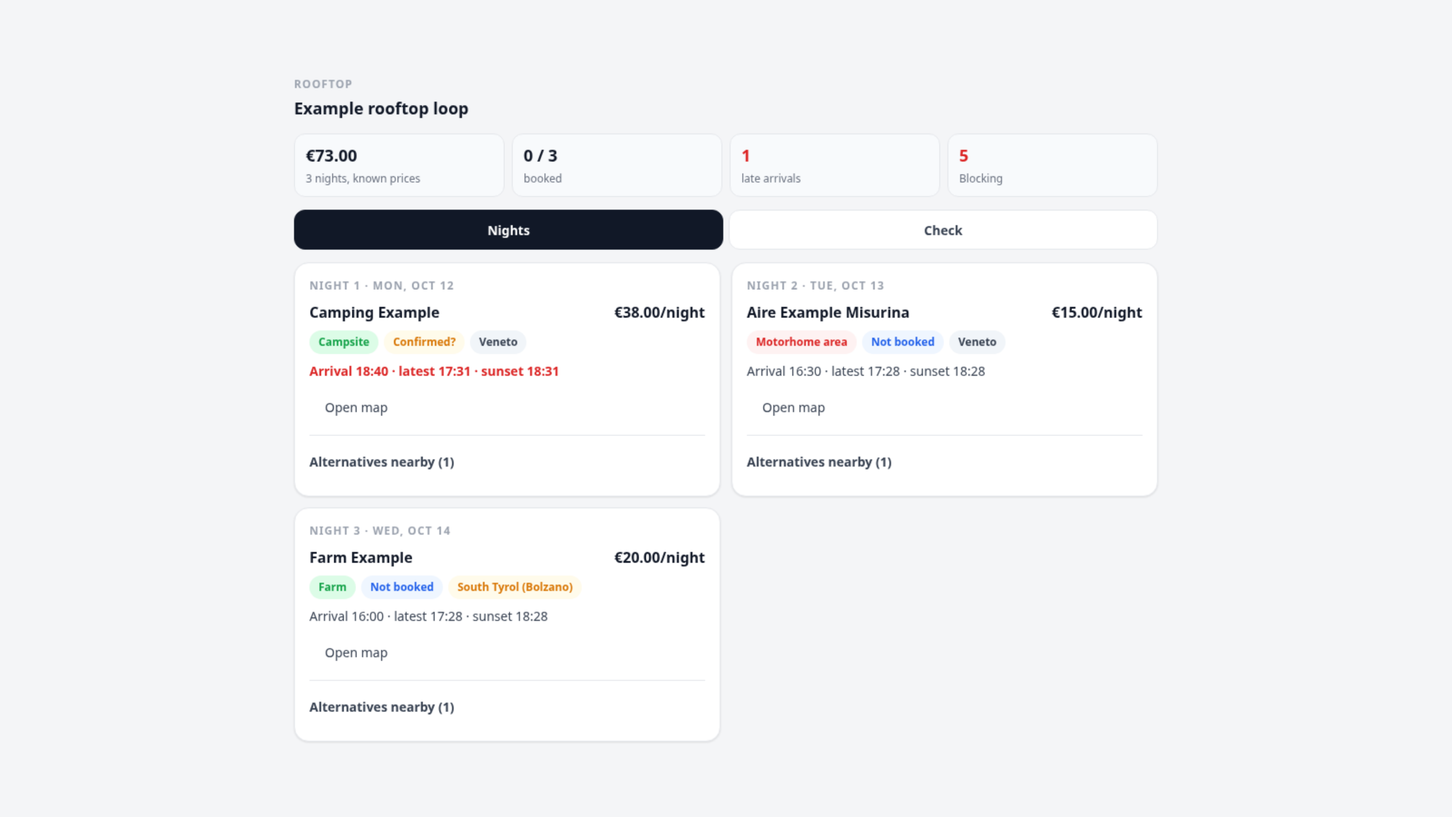
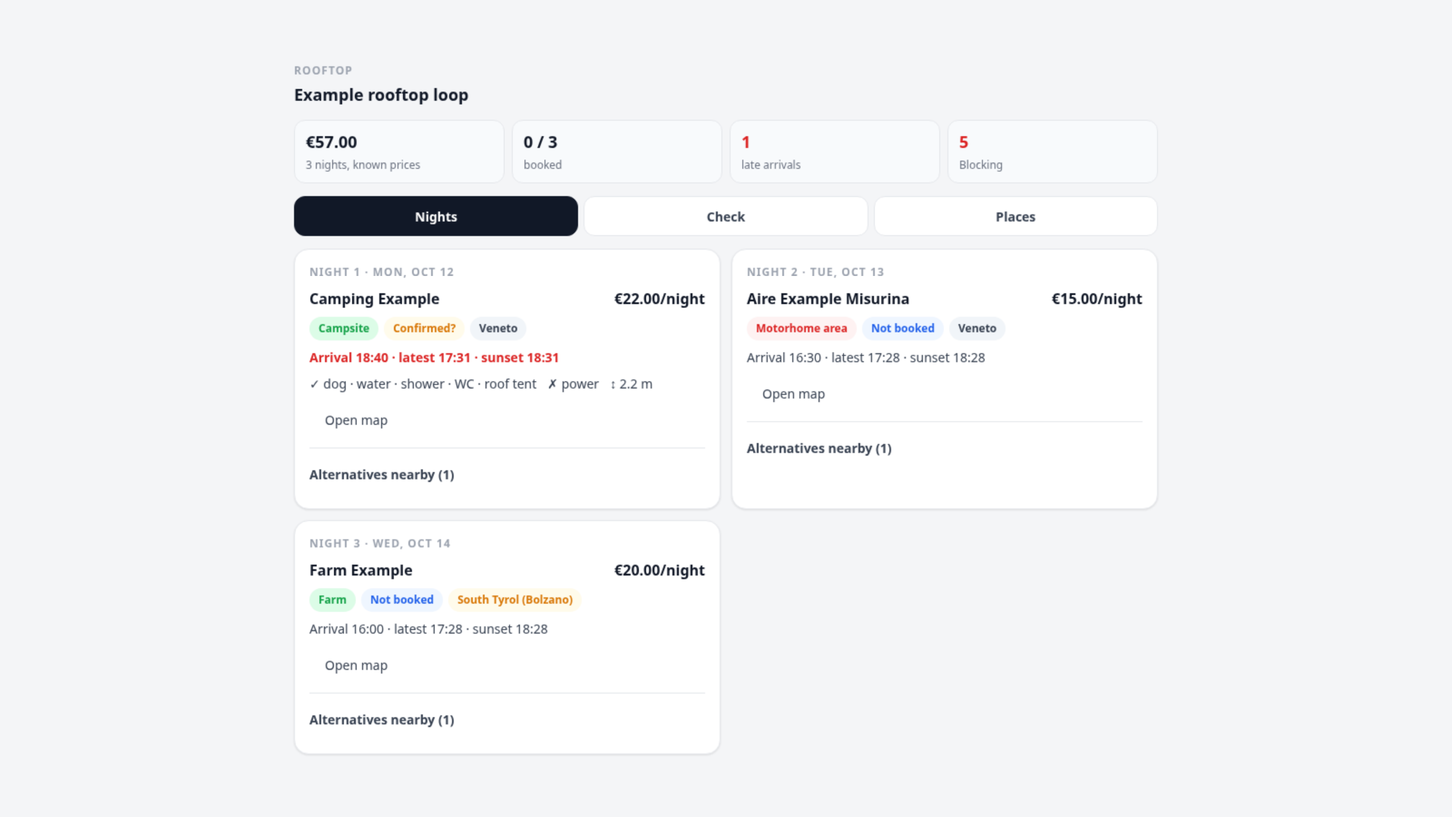
feat: place_info MCP tool and Places editor tab; sun table folded into check_trip

diff --git a/client/index.html b/client/index.html
@@ -38,6 +38,14 @@
     .finding:last-child { border-bottom: 0; }
     .empty { padding: 24px 0; text-align: center; color: var(--text-muted); }
     .foot { font-size: 12px; color: var(--text-muted); }
+    .form { display: flex; flex-direction: column; gap: 12px; }
+    .form .grid2 { display: grid; grid-template-columns: repeat(auto-fit, minmax(140px, 1fr)); gap: 10px; }
+    .form label { display: flex; flex-direction: column; gap: 4px; font-size: 13px; color: var(--text-muted); }
+    .form input, .form select { font-size: 16px; min-height: 44px; }
+    .form .actions { display: flex; gap: 8px; flex-wrap: wrap; }
+    .form .actions button { min-height: 44px; }
+    .amen { font-size: 14px; color: var(--text-secondary); display: flex; flex-wrap: wrap; gap: 2px 12px; }
+    .amen-part { white-space: nowrap; }
     /* No text under 12 px: the kit's eyebrow (10 px) and count pill (11 px) are raised. */
     .trek-eyebrow { font-size: 12px; }
     .trek-countpill { font-size: 12px; }
@@ -55,15 +63,25 @@
         map: 'Open map', none: 'No night planned in this trip yet.', ok: 'Nothing blocking.', pending: 'Some drive times are not cached yet: run the check tool once.',
         kind: { campsite: 'Campsite', farm: 'Farm', aire: 'Motorhome area', private: 'Private ground', hut: 'Hut', unknown: 'Night' },
         status: { booked: 'Booked', 'confirmed-unverified': 'Confirmed?', 'not-booked': 'Not booked' },
-        level: { blocking: 'Blocking', fix: 'To fix', verify: 'To verify', info: 'Info' }, perNight: '/night', km: 'km' },
+        level: { blocking: 'Blocking', fix: 'To fix', verify: 'To verify', info: 'Info' }, perNight: '/night', km: 'km',
+        places: 'Places', place: 'Place', plannedNight: 'night', price: 'Price', currency: 'Currency', per: 'Per', perOpt: { night: 'night', person: 'person' },
+        dogFee: 'Dog fee', maxHeight: 'Max height (m)', source: 'Source (official site, dated review, host\u2019s answer)', checked: 'Checked on', save: 'Save', clear: 'Clear', saved: 'Saved', cleared: 'Cleared', confirmClear: 'Remove the price and amenities of this place?',
+        opt: { yes: 'Yes', no: 'No', fee: 'With a fee', unknown: 'Unknown' },
+        am: { dog: 'Dog', water: 'Water', electricity: 'Electricity', shower: 'Shower', toilets: 'Toilets', dump_station: 'Dump station', wifi: 'Wi-Fi', rooftop_tent: 'Rooftop tent accepted' }, onlySourced: 'Enter only what a source states; leave the rest unknown.' },
       fr: { nights: 'Nuits', check: 'Contrôle', total: 'nuits, prix connus', booked: 'réservées', late: 'arrivées tardives', unknown: 'prix inconnus',
         night: 'Nuit', arrival: 'Arrivée', latest: 'au plus tard', sunset: 'coucher', noArrival: 'heure d’arrivée inconnue', alts: 'Replis à proximité',
         map: 'Ouvrir la carte', none: 'Aucune nuit planifiée dans ce voyage.', ok: 'Rien de bloquant.', pending: 'Certains temps de route ne sont pas encore en cache : lancer une fois l’outil de contrôle.',
         kind: { campsite: 'Camping', farm: 'Ferme', aire: 'Aire', private: 'Particulier', hut: 'Refuge', unknown: 'Nuitée' },
         status: { booked: 'Réservé', 'confirmed-unverified': 'Confirmé ?', 'not-booked': 'Non réservé' },
-        level: { blocking: 'Bloquant', fix: 'À corriger', verify: 'À vérifier', info: 'Info' }, perNight: '/nuit', km: 'km' },
+        level: { blocking: 'Bloquant', fix: 'À corriger', verify: 'À vérifier', info: 'Info' }, perNight: '/nuit', km: 'km',
+        places: 'Lieux', place: 'Lieu', plannedNight: 'nuit', price: 'Prix', currency: 'Devise', per: 'Par', perOpt: { night: 'nuit', person: 'personne' },
+        dogFee: 'Supplément chien', maxHeight: 'Hauteur max (m)', source: 'Source (site officiel, avis daté, réponse de l\u2019hôte)', checked: 'Vérifié le', save: 'Enregistrer', clear: 'Effacer', saved: 'Enregistré', cleared: 'Effacé', confirmClear: 'Effacer le prix et les commodités de ce lieu ?',
+        opt: { yes: 'Oui', no: 'Non', fee: 'Avec supplément', unknown: 'Inconnu' },
+        am: { dog: 'Chien', water: 'Eau', electricity: 'Électricité', shower: 'Douche', toilets: 'WC', dump_station: 'Vidange', wifi: 'Wi-Fi', rooftop_tent: 'Tente de toit acceptée' }, onlySourced: 'Ne saisir que ce qu\u2019une source dit ; laisser le reste inconnu.' },
     };
-    var state = { tripId: null, data: null, tab: 'nights', locale: 'en', loading: false };
+    var state = { tripId: null, data: null, tab: 'nights', locale: 'en', loading: false, places: null, placeId: null };
+    // A place to open directly: from the host context (placeId) or from ?place= in the frame URL.
+    var wanted = (function () { try { return Number(new URLSearchParams(location.search).get('place')) || null; } catch (e) { return null; } })();
 
     function h(tag, attrs, kids) {
       var el = document.createElement(tag);
@@ -96,6 +114,9 @@
         h('div', { class: 'top' }, [h('h2', { text: n.name }), h('span', { class: 'price', text: money(n.price, cur) + (n.price != null ? t.perNight : '') })]),
         h('div', { class: 'chips' }, [chip(t.kind[n.kind] || n.kind, kindTone), chip(t.status[n.status] || n.status, statusTone), n.zone ? chip(n.zone, n.kind === 'farm' && /Tyrol/.test(n.zone) ? 'warning' : '') : null]),
         arr,
+        // The entered price detail (per person, dog fee) under the night total above.
+        n.priceText && /[+]|\/(person|pers)/.test(n.priceText) ? h('div', { class: 'amen', text: n.priceText }) : null,
+        n.amenities ? h('div', { class: 'amen' }, n.amenities.split('  ').map(function (part) { return h('span', { class: 'amen-part', text: part }); })) : null,
       ];
       if (n.lat != null) {
         kids.push(h('button', { class: 'trek-btn trek-btn--ghost map', type: 'button', text: t.map, on: { click: function () { trek.openExternal('https://www.openstreetmap.org/?mlat=' + n.lat + '&mlon=' + n.lng + '#map=14/' + n.lat + '/' + n.lng); } } }));
@@ -127,6 +148,79 @@
       return box;
     }
 
+
+    function field(label, input) { return h('label', {}, [h('span', { text: label }), input]); }
+    function sel(name, options, value, labels) {
+      var s = h('select', { class: 'trek-select', name: name }, options.map(function (o) { var e = h('option', { value: o, text: labels[o] || o }); if (o === value) e.selected = true; return e; }));
+      return s;
+    }
+    function num(name, value, step) { var i = h('input', { class: 'trek-input', type: 'number', name: name, step: step || '0.01', min: '0', inputmode: 'decimal' }); if (value != null) i.value = String(value); return i; }
+
+    function placesView(t) {
+      var box = h('div', { class: 'trek-card form' });
+      if (!state.places) { box.appendChild(h('div', { class: 'trek-skeleton', style: 'height:80px;border-radius:12px' })); loadPlaces(); return box; }
+      var list = state.places.places;
+      if (!list.length) { box.appendChild(h('p', { class: 'empty', text: t.none })); return box; }
+      if (!state.placeId || !list.some(function (p) { return p.id === state.placeId; })) state.placeId = list[0].id;
+      var pick = h('select', { class: 'trek-select', on: { change: function (e) { state.placeId = Number(e.target.value); render(); } } }, list.map(function (p) {
+        var o = h('option', { value: String(p.id), text: (p.plannedNight ? '\u2605 ' : '') + p.name + (p.plannedNight ? ' (' + t.plannedNight + ')' : '') });
+        if (p.id === state.placeId) o.selected = true;
+        return o;
+      }));
+      var place = list.filter(function (p) { return p.id === state.placeId; })[0];
+      var info = place.info || { price: { amount: null, currency: 'EUR', per: 'night' }, dog_fee: null, max_height_m: null, amenities: {}, source: null, checked: null };
+      var am = state.places.amenities;
+      var form = h('form', { class: 'form' });
+      form.appendChild(field(t.place, pick));
+      form.appendChild(h('div', { class: 'grid2' }, [
+        field(t.price, num('price_amount', info.price.amount)),
+        field(t.currency, (function () { var i = h('input', { class: 'trek-input', name: 'currency', maxlength: '3', autocapitalize: 'characters' }); i.value = info.price.currency || 'EUR'; return i; })()),
+        field(t.per, sel('per', ['night', 'person'], info.price.per, t.perOpt)),
+        field(t.dogFee, num('dog_fee', info.dog_fee)),
+        field(t.maxHeight, num('max_height_m', info.max_height_m, '0.01')),
+      ]));
+      form.appendChild(h('div', { class: 'grid2' }, Object.keys(am).map(function (k) {
+        return field(t.am[k] || k, sel(k, am[k], info.amenities[k] || 'unknown', t.opt));
+      })));
+      var src = h('input', { class: 'trek-input', name: 'source', maxlength: '300' }); if (info.source) src.value = info.source;
+      var chk = h('input', { class: 'trek-input', name: 'checked', type: 'date' }); if (info.checked) chk.value = info.checked;
+      form.appendChild(h('div', { class: 'grid2' }, [field(t.source, src), field(t.checked, chk)]));
+      form.appendChild(h('p', { class: 'foot', text: t.onlySourced }));
+      form.appendChild(h('div', { class: 'actions' }, [
+        h('button', { class: 'trek-btn trek-btn--primary', type: 'submit', text: t.save }),
+        place.info ? h('button', { class: 'trek-btn trek-btn--ghost', type: 'button', text: t.clear, on: { click: function () { clearPlace(t); } } }) : null,
+      ]));
+      form.addEventListener('submit', function (e) { e.preventDefault(); savePlace(form, t); });
+      return form;
+    }
+
+    async function loadPlaces() {
+      try {
+        state.places = await trek.invoke('/places', { method: 'POST', body: { tripId: Number(state.tripId) } });
+        render();
+      } catch (e) { trek.notify('error', e.message); }
+    }
+    async function savePlace(form, t) {
+      var fd = new FormData(form);
+      var set = {};
+      fd.forEach(function (v, k) { set[k] = v; });
+      ['price_amount', 'dog_fee', 'max_height_m'].forEach(function (k) { set[k] = set[k] === '' ? null : Number(set[k]); });
+      set.currency = String(set.currency || 'EUR').toUpperCase();
+      try {
+        await trek.invoke('/place-info', { method: 'POST', body: { tripId: Number(state.tripId), placeId: state.placeId, set: set } });
+        trek.notify('success', t.saved);
+        state.places = null; state.data = null; load();
+      } catch (e) { trek.notify('error', e.message); }
+    }
+    async function clearPlace(t) {
+      if (!(await trek.confirm({ message: t.confirmClear, danger: true }))) return;
+      try {
+        await trek.invoke('/place-info', { method: 'POST', body: { tripId: Number(state.tripId), placeId: state.placeId, clear: true } });
+        trek.notify('success', t.cleared);
+        state.places = null; state.data = null; load();
+      } catch (e) { trek.notify('error', e.message); }
+    }
+
     function render() {
       var d = state.data;
       if (!d) return;
@@ -141,12 +235,12 @@
           h('div', { class: 'kpi' }, [h('b', { class: k.late ? 'late' : '', text: String(k.late) }), h('span', { text: t.late })]),
           h('div', { class: 'kpi' }, [h('b', { class: d.check.counts.blocking ? 'late' : '', text: String(d.check.counts.blocking) }), h('span', { text: t.level.blocking })]),
         ]),
-        h('nav', { class: 'tabs', role: 'tablist' }, ['nights', 'check'].map(function (id) {
+        h('nav', { class: 'tabs', role: 'tablist' }, ['nights', 'check', 'places'].map(function (id) {
           return h('button', { role: 'tab', type: 'button', 'aria-selected': String(state.tab === id), text: t[id], on: { click: function () { state.tab = id; render(); } } });
         })),
         state.tab === 'nights'
           ? (d.nights.length ? h('section', { class: 'grid' }, d.nights.map(function (n) { return nightCard(n, t, cur); })) : h('p', { class: 'empty', text: t.none }))
-          : checkView(d, t)
+          : state.tab === 'check' ? checkView(d, t) : placesView(t)
       );
     }
 
@@ -166,6 +260,8 @@
     var timer = null;
     trek.onContext(function (ctx) {
       state.locale = ctx.locale || 'en';
+      var asked = Number(ctx.placeId) || wanted;
+      if (asked && asked !== state.placeId) { state.placeId = asked; state.tab = 'places'; wanted = null; }
       if (ctx.tripId && ctx.tripId !== state.tripId) { state.tripId = ctx.tripId; load(); }
     });
     // Core events carry names only: refetch, debounced (a bulk edit fires many).

diff --git a/server/lib/tools.js b/server/lib/tools.js
@@ -15,6 +15,8 @@ const { planTrip, planRequest } = require('./plan');
 const { sunset, sunrise } = require('./sun');
 const { hhmm, deadline: makeDeadline } = require('./util');
 const { nightOf } = require('./trip');
+const placeInfo = require('./place-info');
+const { isNightCategory } = require('./classify');
 
 const TOOL_BUDGET_MS = 12500;
 const MAX_BYTES = 60000; // under the host's 64 KiB, with room for its envelope
@@ -44,20 +46,40 @@ function fit(result, max = MAX_BYTES) {
   return out;
 }
 
-function sunTable(model, args, settings) {
+/** Sunrise, sunset and latest arrival of each day, at that night's place (else the last located stop). */
+function sunTable(model, settings) {
   const row = (date, lat, lng, name) => {
     const ss = sunset(lat, lng, date, settings.timezone);
     return { date, place: name || `${lat},${lng}`, sunrise: hhmm(sunrise(lat, lng, date, settings.timezone)), sunset: hhmm(ss), latestArrival: hhmm(ss == null ? null : ss - settings.sunset_margin_min) };
   };
-  if (model) {
-    return model.days.filter((d) => d.date).map((d) => {
-      const n = nightOf(model, d);
-      const last = n && n.lat != null ? n : [...d.assignments].reverse().map((a) => a.place).find((p) => p.lat != null);
-      return last ? { day: d.n, ...row(d.date, last.lat, last.lng, last.name) } : { day: d.n, date: d.date, place: null };
-    });
+  return model.days.filter((d) => d.date).map((d) => {
+    const n = nightOf(model, d);
+    const last = n && n.lat != null ? n : [...d.assignments].reverse().map((a) => a.place).find((p) => p.lat != null);
+    return last ? { day: d.n, ...row(d.date, last.lat, last.lng, last.name) } : { day: d.n, date: d.date, place: null };
+  });
+}
+
+/** Read all / read one / write one / clear one place's price and amenities. */
+async function placeInfoTool(ctx, model, a, settings) {
+  const L = settings.language;
+  const view = (p, info) => ({ placeId: p.id, name: p.name, price: placeInfo.priceText(info, L), amenities: placeInfo.amenitiesText(info, L), nightTotal: placeInfo.nightTotal(info, settings), record: info });
+  if (!a.placeId) {
+    const withInfo = model.pool.filter((p) => p.info).map((p) => view(p, p.info));
+    const planned = new Set(model.nights.map((n) => n.placeId));
+    const toFill = model.pool.filter((p) => !p.info && (planned.has(p.id) || isNightCategory(p.categoryName)) && !p.geometry)
+      .map((p) => ({ placeId: p.id, name: p.name, plannedNight: planned.has(p.id) }))
+      .sort((x, y) => y.plannedNight - x.plannedNight).slice(0, 60);
+    return { places: withInfo, toFill, note: 'Fill from cited sources only; unknown stays unknown.' };
   }
-  if (args.lat == null || args.lng == null || !(args.dates || []).length) throw new Error('give tripId, or lat, lng and dates');
-  return args.dates.map((d) => row(d, args.lat, args.lng));
+  const place = model.poolById.get(a.placeId);
+  if (!place) throw new Error(`place ${a.placeId} is not in trip ${model.tripId}`);
+  if (a.clear) { await placeInfo.clear(ctx, model.tripId, place.id); return { placeId: place.id, cleared: true }; }
+  if (a.set) {
+    const rec = await placeInfo.set(ctx, model.tripId, place.id, a.set);
+    return { saved: true, ...view(place, rec) };
+  }
+  // One place: read its value directly, not through the index.
+  return view(place, (await placeInfo.get(ctx, place.id)) || placeInfo.blank());
 }
 
 async function callTool({ name, args }, ctx, { now } = {}) {
@@ -67,7 +89,7 @@ async function callTool({ name, args }, ctx, { now } = {}) {
   if (a.language) settings.language = a.language;
   const deadline = makeDeadline(TOOL_BUDGET_MS, now);
   const opts = { settings, deadline, network: true };
-  const model = a.tripId ? await loadTrip(ctx, a.tripId) : null;
+  const model = a.tripId ? await loadTrip(ctx, a.tripId, settings) : null;
   const needTrip = () => { if (!model) throw new Error('tripId is required'); };
   const timezone = { timezone: settings.timezone, language: settings.language };
 
@@ -81,6 +103,7 @@ async function callTool({ name, args }, ctx, { now } = {}) {
       const r = await checkTrip(ctx, model, opts);
       const levels = a.levels && a.levels.length ? a.levels : null;
       res = { trip: model.trip.title, ...r, findings: levels ? r.findings.filter((f) => levels.includes(f.level)) : r.findings };
+      if (a.sun) res.sun = { ...timezone, marginMinutes: settings.sunset_margin_min, days: sunTable(model, settings) };
       break;
     }
     case 'rooftop_tools_find_nights':
@@ -90,6 +113,10 @@ async function callTool({ name, args }, ctx, { now } = {}) {
           evening: { lat: a.lat, lng: a.lng }, morning: a.morning_lat != null && a.morning_lng != null ? { lat: a.morning_lat, lng: a.morning_lng } : null, date: a.date, radiusKm: a.radius_km,
         }, opts);
       } else throw new Error('give tripId and dayNumber, or lat and lng');
+      if (res.date && res.evening) {
+        const ss = sunset(res.evening.lat, res.evening.lng, res.date, settings.timezone);
+        res.sun = { sunset: hhmm(ss), latestArrival: hhmm(ss == null ? null : ss - settings.sunset_margin_min) };
+      }
       break;
     case 'rooftop_tools_compute_routes':
       needTrip();
@@ -101,8 +128,9 @@ async function callTool({ name, args }, ctx, { now } = {}) {
       res = await scheduleDay(ctx, model, { dayNumber: a.dayNumber }, { ...opts, departure: a.departure, stays });
       break;
     }
-    case 'rooftop_tools_sun_times':
-      res = { ...timezone, marginMinutes: settings.sunset_margin_min, days: sunTable(model, a, settings) };
+    case 'rooftop_tools_place_info':
+      needTrip();
+      res = await placeInfoTool(ctx, model, a, settings);
       break;
     case 'rooftop_tools_supplies_on_route':
       needTrip();

diff --git a/server/lib/tool-specs.js b/server/lib/tool-specs.js
@@ -11,6 +11,7 @@ const DAY = { type: 'integer', minimum: 1, maximum: 400, description: 'Day numbe
 const HHMM = { type: 'string', pattern: '^[0-2]?[0-9]:[0-5][0-9]$', description: 'Local time, HH:MM.' };
 const LAT = { type: 'number', minimum: -90, maximum: 90 };
 const LNG = { type: 'number', minimum: -180, maximum: 180 };
+const TRI = { type: 'string', enum: ['yes', 'no', 'unknown'] };
 
 const TOOL_SPECS = [
   {
@@ -51,6 +52,7 @@ const TOOL_SPECS = [
         tripId: TRIP,
         levels: { type: 'array', uniqueItems: true, items: { type: 'string', enum: ['blocking', 'fix', 'verify', 'info'] }, description: 'Levels to return (default all).' },
         language: { type: 'string', enum: ['en', 'fr'], description: 'Message language (default: the user setting).' },
+        sun: { type: 'boolean', default: false, description: 'Also return sunrise, sunset and latest arrival for each night.' },
       },
     },
     annotations: { readOnlyHint: true, openWorldHint: true },
@@ -58,7 +60,7 @@ const TOOL_SPECS = [
   {
     name: 'rooftop_tools_find_nights',
     title: 'Find cheap legal nights for a rooftop tent',
-    description: `Campsite and farm (agriturismo) candidates from OpenStreetMap between the evening's last visit and the next morning's first stop, ranked: forbidden last (motorhome areas are excluded: an opened rooftop tent is camping), then legal risk, then price, then the real detour in drive minutes; with total cost (night + fuel of the detour) and the saving versus the current night. Give tripId + dayNumber (the evening's day), or evening lat/lng (+ morning). OSM has no reviews and rarely prices: each candidate lists what to verify. If the tool plugin_rooftop-park4night-searcher_rooftop_tools_park4night_search is available, call it too for prices and ratings. Compare whole chains of nights, not one night at a time. ${SAFETY}`,
+    description: `Campsite and farm (agriturismo) candidates from OpenStreetMap between the evening's last visit and the next morning's first stop, with sunset and latest arrival at the evening point when a date is known; ranked: forbidden last (motorhome areas are excluded: an opened rooftop tent is camping), then legal risk, then price, then the real detour in drive minutes; with total cost (night + fuel of the detour) and the saving versus the current night. Give tripId + dayNumber (the evening's day), or evening lat/lng (+ morning). OSM has no reviews and rarely prices: each candidate lists what to verify. If the tool plugin_rooftop-park4night-searcher_rooftop_tools_park4night_search is available, call it too for prices and ratings. Compare whole chains of nights, not one night at a time. ${SAFETY}`,
     inputSchema: {
       type: 'object',
       additionalProperties: false,
@@ -115,20 +117,35 @@ const TOOL_SPECS = [
     annotations: { readOnlyHint: true, openWorldHint: true },
   },
   {
-    name: 'rooftop_tools_sun_times',
-    title: 'Sunset and latest arrival per night',
-    description: 'Sunrise, sunset and latest arrival (sunset minus the configured margin, to unfold the tent in daylight) for each day of a trip at that night\'s place, or for given dates at a point. Computed for the exact date and place in the user\'s time zone, never a "usual" hour. Read-only, no network.',
+    name: 'rooftop_tools_place_info',
+    title: 'Read or record the price and amenities of places',
+    description: 'Price and amenities of the places of a trip, shown in the planner (columns on each place) instead of in place titles, and used by the check and the budget. Without placeId: lists the places that have them, and the nights still to fill. With placeId and "set": records the price (amount, currency, per night or per person, dog fee) and amenities (dog yes/no/fee, water, electricity, shower, toilets, dump station, wifi, rooftop tent accepted, max height); each one is yes, no or unknown. Record only what a cited source states (official site first, then a dated review or the host\'s written answer, in "source"); leave everything else unknown, never estimate. "clear": true removes the record. Writes only the plugin\'s own data on the place, never the trip itself. Never book or message a host without the user\'s explicit validation.',
     inputSchema: {
       type: 'object',
       additionalProperties: false,
+      required: ['tripId'],
       properties: {
         tripId: TRIP,
-        lat: LAT,
-        lng: LNG,
-        dates: { type: 'array', maxItems: 60, items: { type: 'string', format: 'date' } },
+        placeId: { type: 'integer', minimum: 1, description: 'TREK place id.' },
+        clear: { type: 'boolean', default: false },
+        set: {
+          type: 'object',
+          additionalProperties: false,
+          properties: {
+            price_amount: { type: 'number', minimum: 0, maximum: 10000, nullable: true },
+            currency: { type: 'string', pattern: '^[A-Z]{3}$' },
+            per: { type: 'string', enum: ['night', 'person'] },
+            dog_fee: { type: 'number', minimum: 0, maximum: 1000, nullable: true },
+            max_height_m: { type: 'number', minimum: 1, maximum: 6, nullable: true },
+            dog: { type: 'string', enum: ['yes', 'no', 'fee', 'unknown'] },
+            water: TRI, electricity: TRI, shower: TRI, toilets: TRI, dump_station: TRI, wifi: TRI, rooftop_tent: TRI,
+            source: { type: 'string', maxLength: 300 },
+            checked: { type: 'string', format: 'date', description: 'Date the source was read.' },
+          },
+        },
       },
     },
-    annotations: { readOnlyHint: true, openWorldHint: false },
+    annotations: { readOnlyHint: false, destructiveHint: false, openWorldHint: false },
   },
   {
     name: 'rooftop_tools_supplies_on_route',

diff --git a/README.md b/README.md
@@ -33,6 +33,13 @@ checks a trip against those rules and helps fix it.
   that day.
 - **Budget** — nights, fuel per day from road kilometres, tolls from budget lines, and options
   compared in money.
+- **Price and amenities** — for any place: price (per night or per person, currency, dog fee) and
+  amenities (dog, water, electricity, shower, toilets, dump station, wifi, rooftop tent accepted,
+  maximum height), each *yes*, *no* or *unknown*. Shown as two columns on every place in the
+  planner (e.g. `22 €/night` and `✓ dog · water · shower  ✗ power  ↕ 2.1 m`), so titles stay plain
+  names; edited in the *Places* tab or with `rooftop_tools_place_info`; used by the check (rooftop
+  tent refused, dog refused, height too low, water) and by the budget (per-person prices times the
+  number of travellers, dog fee).
 - **All-in-one** — `rooftop_tools_plan_trip` chains all of the above and returns an ordered action
   list.
 
@@ -43,11 +50,11 @@ Advertised as `plugin_rooftop-planner-plugin_<name>` to assistants holding the `
 | Tool | Does |
 |---|---|
 | `rooftop_tools_plan_trip` | All-in-one: check → nights → routes → schedules → budget; resumable with `continuation`. `apply` defaults to `false`. |
-| `rooftop_tools_check_trip` | The full check, filtered by level. Read-only. |
-| `rooftop_tools_find_nights` | Night candidates for a trip night or around a point. |
+| `rooftop_tools_check_trip` | The full check, filtered by level; `sun: true` adds sunrise, sunset and latest arrival per night. Read-only. |
+| `rooftop_tools_find_nights` | Night candidates for a trip night or around a point, with the sunset at the evening point. |
 | `rooftop_tools_compute_routes` | Day routes; `apply: true` recreates the day's route places. |
 | `rooftop_tools_schedule_day` | Times of one day from drive times; returns the core `update_assignment_time` calls. |
-| `rooftop_tools_sun_times` | Sunrise, sunset and latest arrival per night. No network. |
+| `rooftop_tools_place_info` | Read or record the price and amenities of places (only what a cited source states). |
 | `rooftop_tools_supplies_on_route` | Groceries, fuel and water along a day's route. |
 | `rooftop_tools_trip_budget` | Budget and option comparison. |
 
@@ -60,8 +67,9 @@ with a `continuation` token) and under the 64 KiB result cap.
 ## Screenshots
 
 `docs/screenshot.png` — the trip tab on a desktop width: one card per night (kind, booking status,
-legal zone, arrival versus the latest arrival before sunset, alternatives folded), and the check
-grouped by level in the second tab. On a phone the cards stack in one column.
+legal zone, arrival versus the latest arrival before sunset, price and amenities, alternatives
+folded); the check grouped by level in the second tab; the price and amenities editor in the third.
+On a phone the cards stack in one column.
 
 ## Permissions
 
@@ -74,6 +82,8 @@ grouped by level in the second tab. On a phone the cards stack in one column.
 | `db:read:todos` | Finds to-dos asking to book a night that is no longer planned. |
 | `db:write:places` | Only with `apply: true` in `rooftop_tools_compute_routes` / `rooftop_tools_plan_trip`: recreates a day's route place (a place geometry cannot be edited, so the old one is deleted). |
 | `db:write:itinerary` | Only with `apply: true`: puts the new route place on its day. |
+| `db:meta` | Stores the price and amenities of a place on the place itself (the plugin's own namespaced data; writes need the user's place edit right). |
+| `hook:table-contributor` | Shows the price and amenities columns, and a "Price & amenities" button, on each place in the planner. |
 | `mcp:tools` | Publishes the eight `rooftop_tools_*` tools on TREK's MCP server. |
 | `hook:trip-warning-provider` | Shows blocking / to-fix / to-verify points in the planner's warnings banner (cache only, no network, at most 20). |
 | `hook:route-provider` | Adds the "Rooftop tent (no tolls)" and "Rooftop tent (motorway)" route profiles. |
@@ -88,13 +98,17 @@ or anything about the travellers.
 1. Install the plugin (Admin → Plugins) and approve its permissions.
 2. Each traveller sets their own values in Settings → Plugins → Rooftop Planner: vehicle height,
    target and ceiling price per night, sunset margin, dog, water reserve, fuel consumption and
-   price, motorway days, shopping detour limit, time zone of the trip, language (English or French).
+   price, number of travellers, motorway days, shopping detour limit, time zone of the trip,
+   language (English or French).
 3. For assistants: give the MCP client the `plugins:use` scope, then ask it to run
    `rooftop_tools_check_trip` on your trip (it also fills the cache the warnings banner reads).
 
 Conventions the check relies on, all optional: opening hours written in a stop's notes as
 `Monday: 8h00–21h00`, a check-in window as `Check-in: 15h–23h`, a minimum stay as
 `2 nights minimum`, and for a stop reached on foot the car park as `Start: parking X, 46.5000, 11.7000`.
+
+The "Price & amenities" button on a place opens the plugin's tab; until TREK passes the place to a
+plugin frame, pick the place in the *Places* tab (it opens on that place by itself once TREK does).
 
 Limits worth knowing: zone outlines are coarse (check a night near a border by hand); the public
 Overpass server allows few queries per server, so night and supply searches may answer "busy, try
